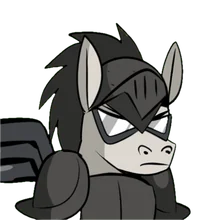
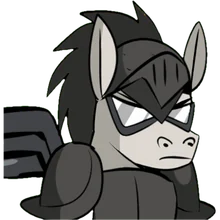
Link Steam, demo and Discord; center unit heads; scalable text outlines
- Wire the real Steam store page, itch.io demo and Discord invite
- Re-crop unit heads so each face is centered, and clip them inside their circles
- Draw heading outlines on a layer behind the fill, sized in em, so small text stays readable
- Point the media script at the game project next to this repo; drop the old deploy script

diff --git a/css/style.css b/css/style.css
@@ -60,15 +60,19 @@ h1, h2, h3, h4 { font-family: var(--font-head); font-weight: 400; margin: 0; let
 .btn[data-missing] { opacity: .85; }
 
 /* ---------- Headings ---------- */
+/* Outlined text: JS copies the text into data-text; ::before draws the outline, ::after the fill on top */
+.ol { position: relative; color: transparent !important; }
+.ol::before, .ol::after { content: attr(data-text); position: absolute; inset: 0; white-space: pre-line; pointer-events: none; }
+.ol::before { color: var(--ink); -webkit-text-stroke: var(--ol-w, .22em) var(--ink); }
+.ol::after { color: var(--ol-fill, #fff); background: var(--ol-bg, none); -webkit-background-clip: text; background-clip: text; }
+
 .title {
   font-size: clamp(2.3rem, 5.5vw, 3.9rem); line-height: 1.02; text-align: center;
-  background: linear-gradient(#ffe066 15%, #ff9a1f 60%, #f0661a);
-  -webkit-background-clip: text; background-clip: text; color: transparent;
-  -webkit-text-stroke: 7px var(--ink); paint-order: stroke fill;
-  filter: drop-shadow(0 6px 0 var(--ink));
+  --ol-fill: transparent; --ol-bg: linear-gradient(#ffe066 15%, #ff9a1f 60%, #f0661a);
+  filter: drop-shadow(0 .09em 0 var(--ink));
   margin-bottom: .35em;
 }
-.subtitle { font-size: 1.9rem; color: #fff; text-align: center; margin: 2.2em 0 .9em; -webkit-text-stroke: 5px var(--ink); paint-order: stroke fill; filter: drop-shadow(0 4px 0 var(--ink)); }
+.subtitle { font-size: 1.9rem; --ol-fill: #fff; text-align: center; margin: 2.2em 0 .9em; filter: drop-shadow(0 .1em 0 var(--ink)); }
 .lede { text-align: center; font-size: 1.2rem; font-weight: 800; max-width: 640px; margin: 0 auto 2.4em; color: var(--ink); }
 .lede--light { color: #fff; text-shadow: 0 2px 8px rgba(0,0,0,.6); }
 
@@ -176,7 +180,7 @@ h1, h2, h3, h4 { font-family: var(--font-head); font-weight: 400; margin: 0; let
 .side.is-active img { transform: rotate(-5deg) scale(1.06); }
 .side__name { font: clamp(1.4rem, 3vw, 2rem) var(--font-head); text-shadow: 0 3px 0 var(--ink); }
 .side__hint { font-weight: 900; font-size: .9rem; opacity: .9; }
-.versus__vs { font: clamp(2.4rem, 6vw, 4rem) var(--font-head); color: var(--gold); -webkit-text-stroke: 6px var(--ink); paint-order: stroke fill; filter: drop-shadow(0 5px 0 var(--ink)); transform: rotate(-8deg); animation: pulse 1.6s ease-in-out infinite; }
+.versus__vs { font: clamp(2.4rem, 6vw, 4rem) var(--font-head); --ol-fill: var(--gold); filter: drop-shadow(0 .08em 0 var(--ink)); transform: rotate(-8deg); animation: pulse 1.6s ease-in-out infinite; }
 @keyframes pulse { 50% { transform: rotate(-8deg) scale(1.12); } }
 
 .roster { --fc: var(--herd); --fc2: #5b97ff; background: var(--cream); border: 4px solid var(--ink); border-radius: 28px; box-shadow: 0 10px 0 var(--ink); padding: 28px; }
@@ -192,19 +196,22 @@ h1, h2, h3, h4 { font-family: var(--font-head); font-weight: 400; margin: 0; let
   background: #fff; border: 3px solid var(--ink); border-radius: 16px; box-shadow: 0 5px 0 var(--ink);
   transition: transform .15s, background .15s;
 }
-.tile img { width: 76px; height: 76px; border-radius: 50%; background: linear-gradient(var(--fc2), var(--fc)); border: 3px solid var(--ink); transition: transform .2s; }
+.face { position: relative; display: block; flex: none; aspect-ratio: 1; border-radius: 50%; overflow: hidden; border: 3px solid var(--ink); background: radial-gradient(circle at 50% 35%, var(--fc2, #6aa6ff), var(--fc, var(--herd))); }
+.face img { position: absolute; left: 50%; bottom: 0; width: 90%; height: auto; translate: -50% 0; }
+.tile .face { width: 76px; transition: transform .2s; }
 .tile span { font: .98rem/1.1 var(--font-head); text-align: center; }
 .tile small { display: inline-flex; align-items: center; gap: 4px; font-weight: 900; font-size: .85rem; }
 .tile small img { width: 16px; height: 16px; border: 0; background: none; }
 .tile:hover { transform: translateY(-4px); }
-.tile:hover > img { transform: rotate(-8deg) scale(1.08); }
+.tile:hover .face { transform: rotate(-8deg) scale(1.08); }
 .tile.is-active { background: #fff3c4; outline: 4px solid var(--gold); outline-offset: -1px; transform: translateY(-4px); }
 
 .unit { display: grid; grid-template-columns: 260px 1fr; gap: 28px; padding: 22px; border: 3px solid var(--ink); border-radius: 22px; background: #fff; box-shadow: inset 0 -6px 0 rgba(0,0,0,.06); }
-.unit__portrait { position: relative; display: grid; place-items: center; aspect-ratio: 1; border-radius: 50%; border: 5px solid var(--ink); background: radial-gradient(circle at 50% 35%, var(--fc2), var(--fc)); }
-.unit__portrait > img { width: 82%; filter: drop-shadow(0 8px 0 rgba(0,0,0,.25)); }
-.unit__portrait.pop > img { animation: pop .35s; }
-.unit.is-awake .unit__portrait { background: radial-gradient(circle at 50% 35%, #ffe680, #b56bff 70%); box-shadow: 0 0 0 6px rgba(255,214,90,.5), 0 0 40px 10px rgba(180,100,255,.6); animation: glow 1.4s ease-in-out infinite; }
+.unit__portrait { position: relative; aspect-ratio: 1; }
+.unit__portrait .face { width: 100%; border-width: 5px; }
+.unit__portrait .face img { width: 86%; filter: drop-shadow(0 6px 0 rgba(0,0,0,.2)); }
+.unit__portrait.pop .face img { animation: pop .35s; }
+.unit.is-awake .unit__portrait .face { background: radial-gradient(circle at 50% 35%, #ffe680, #b56bff 70%); box-shadow: 0 0 0 6px rgba(255,214,90,.5), 0 0 40px 10px rgba(180,100,255,.6); animation: glow 1.4s ease-in-out infinite; }
 .unit__awaken { position: absolute; bottom: -12px; left: 50%; translate: -50% 0; }
 .unit__role { margin: 0; font-weight: 900; text-transform: uppercase; letter-spacing: .08em; font-size: .8rem; color: var(--fc); }
 .unit__name { font-size: 2.4rem; line-height: 1.05; }
@@ -221,10 +228,10 @@ h1, h2, h3, h4 { font-family: var(--font-head); font-weight: 400; margin: 0; let
 .awk p { margin: 0; font-size: .95rem; }
 .awk__label { font-weight: 900; font-size: .75rem !important; text-transform: uppercase; letter-spacing: .08em; color: #8b62c4; }
 .unit.is-awake .awk { border-style: solid; border-color: var(--awk); background: #efe2ff; }
-@keyframes pop { 0% { transform: scale(.7) rotate(-10deg); } 70% { transform: scale(1.1) rotate(4deg); } 100% { transform: none; } }
+@keyframes pop { 0% { transform: scale(.7) rotate(-10deg); transform-origin: 50% 100%; } 70% { transform: scale(1.1) rotate(4deg); transform-origin: 50% 100%; } 100% { transform: none; } }
 @keyframes glow { 50% { box-shadow: 0 0 0 10px rgba(255,214,90,.35), 0 0 60px 18px rgba(180,100,255,.75); } }
 
-.roster .subtitle { color: var(--cream); margin-top: 1.4em; }
+.roster .subtitle { --ol-fill: var(--cream); margin-top: 1.4em; }
 .spells { display: grid; grid-template-columns: repeat(auto-fit, minmax(230px, 1fr)); gap: 14px; }
 .spell { display: flex; gap: 12px; align-items: flex-start; padding: 14px; background: #fff; border: 3px solid var(--ink); border-radius: 16px; box-shadow: 0 5px 0 var(--ink); }
 .spell img { width: 58px; height: 58px; flex: none; }
@@ -251,12 +258,12 @@ h1, h2, h3, h4 { font-family: var(--font-head); font-weight: 400; margin: 0; let
 .mode:hover .mode__char--c { transform: translateY(-8px); }
 .mode__art--vs { display: flex; align-items: center; justify-content: center; gap: 10px; background: linear-gradient(105deg, var(--herd) 50%, var(--grove) 50%); }
 .mode__art--vs img { width: 110px; filter: drop-shadow(0 5px 0 rgba(0,0,0,.3)); }
-.mode__art--vs span { font: 2rem/1 var(--font-head); color: var(--gold); text-align: center; -webkit-text-stroke: 5px var(--ink); paint-order: stroke fill; }
+.mode__art--vs span { font: 2rem/1 var(--font-head); --ol-fill: var(--gold); text-align: center; }
 
 .mods { display: flex; flex-wrap: wrap; gap: 16px; justify-content: center; }
 .mod { width: 250px; padding: 14px 18px; background: #fff; border: 4px solid var(--ink); border-radius: 18px; box-shadow: 0 6px 0 var(--ink); transform: rotate(var(--r, 0deg)); transition: transform .2s; }
 .mod:hover { transform: rotate(0) scale(1.05); }
-.mod h4 { font-size: 1.35rem; color: var(--orange); -webkit-text-stroke: 4px var(--ink); paint-order: stroke fill; }
+.mod h4 { font-size: 1.35rem; --ol-fill: var(--orange); }
 .mod p { margin: 2px 0 0; font-size: .93rem; }
 
 /* ---------- Trailer + screenshots ---------- */
@@ -297,18 +304,18 @@ h1, h2, h3, h4 { font-family: var(--font-head); font-weight: 400; margin: 0; let
 .mini__unit i b { display: block; height: 100%; background: var(--herd); }
 .mini__unit.grove i b { background: var(--grove); }
 .mini__unit.dead { transition: opacity .4s, transform .4s; opacity: 0; transform: translateY(-30px) rotate(25deg); }
-.mini__dmg { position: absolute; z-index: 5; font: 1.4rem var(--font-head); color: #ffcf33; -webkit-text-stroke: 4px var(--ink); paint-order: stroke fill; pointer-events: none; animation: float .8s ease-out forwards; }
-.mini__dmg.crit { color: #ff5b3a; font-size: 2rem; }
+.mini__dmg { position: absolute; z-index: 5; font: 1.4rem var(--font-head); --ol-fill: #ffcf33; pointer-events: none; animation: float .8s ease-out forwards; }
+.mini__dmg.crit { --ol-fill: #ff5b3a; font-size: 2rem; }
 .mini__proj { position: absolute; z-index: 4; width: 14px; height: 14px; border-radius: 50%; background: #fff; border: 3px solid var(--ink); pointer-events: none; transition: left .3s linear, bottom .3s ease-out; }
 .mini__start[hidden] { display: none; }
 .mini__start { position: absolute; left: 50%; top: 50%; translate: -50% -50%; z-index: 6; }
 .mini__banner { position: absolute; inset: 0; z-index: 7; display: grid; place-content: center; text-align: center; gap: 14px; background: rgba(43,26,14,.6); }
 .mini__banner[hidden] { display: none; }
-.mini__banner p { margin: 0; font: clamp(1.8rem, 4vw, 2.8rem) var(--font-head); color: var(--gold); -webkit-text-stroke: 6px var(--ink); paint-order: stroke fill; }
+.mini__banner p { margin: 0; font: clamp(1.8rem, 4vw, 2.8rem) var(--font-head); --ol-fill: var(--gold); }
 .mini__banner-btns { display: flex; gap: 14px; justify-content: center; flex-wrap: wrap; }
 .mini__cards { display: flex; gap: 12px; justify-content: center; margin-top: 14px; flex-wrap: wrap; }
 .mini__card { position: relative; display: flex; flex-direction: column; align-items: center; gap: 2px; width: 108px; padding: 8px 6px; background: #fff; border: 3px solid var(--ink); border-radius: 14px; box-shadow: 0 5px 0 var(--ink); overflow: hidden; transition: transform .1s; }
-.mini__card img { width: 58px; height: 58px; border-radius: 50%; background: linear-gradient(#6aa6ff, var(--herd)); border: 3px solid var(--ink); }
+.mini__card .face { width: 58px; }
 .mini__card span { font: .9rem/1.1 var(--font-head); }
 .mini__card small { display: flex; align-items: center; gap: 3px; font-weight: 900; }
 .mini__card small img { width: 15px; height: 15px; border: 0; background: none; }
@@ -367,7 +374,7 @@ h1, h2, h3, h4 { font-family: var(--font-head); font-weight: 400; margin: 0; let
   .nav__links a { font-size: 1.4rem; }
   .roster { padding: 16px; border-radius: 22px; }
   .roster__grid { grid-template-columns: repeat(3, 1fr); gap: 8px; }
-  .tile img { width: 58px; height: 58px; }
+  .tile .face { width: 58px; }
   .tile span { font-size: .85rem; }
   .side { padding: 12px 10px; }
   .versus { gap: 8px; }
@@ -381,7 +388,7 @@ h1, h2, h3, h4 { font-family: var(--font-head); font-weight: 400; margin: 0; let
   .mini__cards { gap: 6px; flex-wrap: nowrap; }
   .mini__card { width: auto; flex: 1; min-width: 0; padding: 6px 2px; }
   .mini__card span { font-size: .78rem; }
-  .mini__card img { width: 46px; height: 46px; }
+  .mini__card .face { width: 46px; }
   .ticker__track span { font-size: 1.25rem; }
   .ticker__track img { width: 36px; height: 36px; }
 }

diff --git a/js/main.js b/js/main.js
@@ -1,8 +1,8 @@
 // Paste your links here. Empty ones stay as "coming soon" buttons.
 const LINKS = {
-  steam: "",      // https://store.steampowered.com/app/XXXXXXX/Stay_in_Your_Lane/
-  demo: "",       // https://lunarsol.itch.io/stay-in-your-lane
-  discord: "",    // https://discord.gg/XXXXXXX
+  steam: "https://store.steampowered.com/app/5040850/Stay_in_Your_Lane/",
+  demo: "https://solico.itch.io/stay-in-your-lane",
+  discord: "https://discord.gg/ymjFMzNECS",
   youtube: "",    // full YouTube trailer URL; also replaces the local trailer video
   x: "",          // https://x.com/...
   instagram: "",  // https://instagram.com/...
@@ -94,7 +94,7 @@ function setFaction(key) {
   $("#factionTraits").innerHTML = f.traits.map(t => `<li>${t}</li>`).join("");
   $("#unitGrid").innerHTML = f.units.map(u => `
     <button class="tile" data-id="${u.id}">
-      <img src="assets/img/units/${u.id}.webp" alt="">
+      <span class="face"><img src="assets/img/units/${u.id}.webp" alt=""></span>
       <span>${u.name}</span>
       <small><img src="assets/img/coin.svg" alt="">${u.cost}</small>
     </button>`).join("");
@@ -148,6 +148,12 @@ setFaction("herd");
 
 // --- Game mods as stickers
 $("#mods").innerHTML = MODS.map((m, i) => `<div class="mod" style="--r:${[-2, 1.5, -1, 2, -1.5, 1][i]}deg"><h4>${m.name}</h4><p>${m.text}</p></div>`).join("");
+
+// --- Outlined text (see .ol in style.css)
+$$(".title, .subtitle, .versus__vs, .mode__art--vs span, .mod h4, .mini__banner p").forEach(el => {
+  el.classList.add("ol");
+  el.dataset.text = el.innerText;
+});
 
 // --- Screenshot lightbox
 const lb = $("#lightbox");

diff --git a/js/lane.js b/js/lane.js
@@ -28,7 +28,7 @@
 
   cardsEl.innerHTML = PICKS.herd.map((u, i) => `
     <button class="mini__card" data-i="${i}">
-      <img src="assets/img/units/${u.id}.webp" alt="">
+      <span class="face"><img src="assets/img/units/${u.id}.webp" alt=""></span>
       <span>${u.name}</span>
       <small><img src="assets/img/coin.svg" alt="">${u.cost}</small>
       <i class="cd"></i>
@@ -67,8 +67,8 @@
 
   function popNumber(x, bottom, dmg, crit) {
     const n = document.createElement("div");
-    n.className = `mini__dmg${crit ? " crit" : ""}`;
-    n.textContent = dmg;
+    n.className = `mini__dmg ol${crit ? " crit" : ""}`;
+    n.textContent = n.dataset.text = dmg;
     n.style.left = `${x}%`;
     n.style.bottom = `${bottom}px`;
     field.appendChild(n);
@@ -183,7 +183,8 @@
   function end(msg) {
     running = false;
     drawHud();
-    document.getElementById("miniMsg").textContent = msg;
+    const m = document.getElementById("miniMsg");
+    m.textContent = m.dataset.text = msg;
     banner.hidden = false;
   }
 

diff --git a/index.html b/index.html
@@ -104,7 +104,7 @@
 
       <article class="unit" id="unitCard">
         <div class="unit__portrait">
-          <img id="unitImg" alt="">
+          <span class="face"><img id="unitImg" alt=""></span>
           <button class="btn btn--purple btn--sm unit__awaken" id="awakenBtn">Awaken!</button>
         </div>
         <div class="unit__body">

diff --git a/tools/prepare_media.py b/tools/prepare_media.py
@@ -1,13 +1,15 @@
-# Regenerates Website/assets from the Unity sprites and raw Trailer/*.mov captures.
-# Run from the repo root: python3 Website/tools/prepare_media.py
+# Regenerates assets/ from the Unity project's sprites and raw Trailer/*.mov captures.
+# Run: python3 tools/prepare_media.py  (expects the game at ../Unity/TagOfWar, or set GAME_DIR)
+import os
 import subprocess
 from pathlib import Path
 from PIL import Image
 
-ROOT = Path(__file__).resolve().parents[2]
+SITE = Path(__file__).resolve().parents[1]
+ROOT = Path(os.environ.get("GAME_DIR", SITE.parent / "Unity/TagOfWar"))
 SPR = ROOT / "Assets/GameContent/Sprites"
 TRAILER = ROOT / "Trailer"
-OUT = ROOT / "Website/assets"
+OUT = SITE / "assets"
 IMG, VID = OUT / "img", OUT / "video"
 for d in (IMG, VID, IMG / "units", IMG / "icons", IMG / "shots"):
     d.mkdir(parents=True, exist_ok=True)
@@ -25,6 +27,16 @@ def save(src, dst, width=None, height=None, box=None, q=86):
     if width or height:
         im.thumbnail((width or 99999, height or 99999), Image.LANCZOS)
     im.save(dst, "WEBP", quality=q, method=6)
+
+
+def head(src, dst, size=220):
+    # Trim to the drawing, center it horizontally and sit it on the bottom edge
+    im = Image.open(src).convert("RGBA")
+    im = im.crop(im.getbbox())
+    side = max(im.size)
+    sq = Image.new("RGBA", (side, side))
+    sq.paste(im, ((side - im.width) // 2, side - im.height))
+    sq.resize((size, size), Image.LANCZOS).save(dst, "WEBP", quality=86, method=6)
 
 
 def atlas(src, dst, x, y, w, h, width):
@@ -90,8 +102,8 @@ HEADS = {
     "guerrilla-warfare": ("Guerrilla Warfare Head", "Guerrilla Warfare AWK Head"),
 }
 for slug, (n, a) in HEADS.items():
-    save(SPR / f"Units/UnitIcons/{n}.png", IMG / f"units/{slug}.webp", 220)
-    save(SPR / f"Units/UnitIcons/{a}.png", IMG / f"units/{slug}-awk.webp", 220)
+    head(SPR / f"Units/UnitIcons/{n}.png", IMG / f"units/{slug}.webp")
+    head(SPR / f"Units/UnitIcons/{a}.png", IMG / f"units/{slug}-awk.webp")
 
 # --- Spell and awakening icons
 for f in ("Ram", "Bulls eye", "Horse Power", "last resort", "Legendairy", "Snout", "Apex", "Beehind",

diff --git a/README.md b/README.md
@@ -1,9 +1,8 @@
 # Stay in Your Lane website
 
-Static site, no build step. Upload this folder to GitHub Pages, Netlify, itch.io or any web host.
+Static site, no build step. Served by GitHub Pages from the `main` branch root.
 
-- **Links:** paste the Steam, demo, Discord, YouTube, X and Instagram URLs into `LINKS` at the top of `js/main.js`. Empty links become "coming soon" buttons, and empty social icons are hidden. Setting `youtube` swaps the local trailer for the YouTube embed.
-- **Unit stats and copy:** `js/data.js` (copied from GDD.md, so update it when balance changes).
-- **Images and clips:** regenerate from the Unity sprites and `Trailer/*.mov` with `python3 Website/tools/prepare_media.py` (needs ffmpeg and Pillow).
-- **Preview locally:** `python3 -m http.server 8765 --directory Website`, then open http://localhost:8765.
-# stay-in-your-lane-website
+- **Links:** Steam, demo, Discord, YouTube, X and Instagram URLs live in `LINKS` at the top of `js/main.js`. Empty links become "coming soon" buttons, and empty social icons are hidden. Setting `youtube` swaps the local trailer for the YouTube embed.
+- **Unit stats and copy:** `js/data.js` (copied from the game's GDD.md, so update it when balance changes).
+- **Images and clips:** regenerate from the Unity project with `python3 tools/prepare_media.py` (needs ffmpeg and Pillow; expects the game at `../Unity/TagOfWar`, or set `GAME_DIR`).
+- **Preview locally:** `python3 -m http.server 8765`, then open http://localhost:8765.
